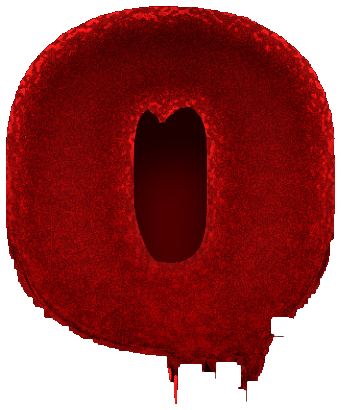
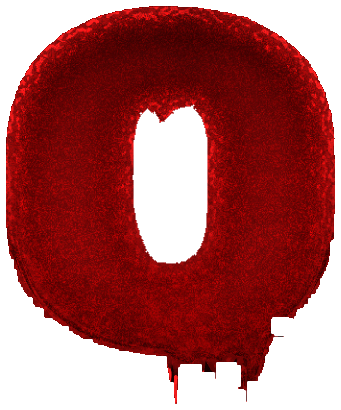
Open the town in blood; hollow letters; a shelf with headers (FT-854 r7)
The host panel's bell becomes a labeled blood door — blood-O drop cap +
'pen the town' — and the O keeps the alphabet's promise: it IS the
hotkey while the panel is up (deaf while typing). The title's O, O2 and
D lose their baked-dark counters: the enclosed center region is cut to
true transparency (surgical flood from the glyph center only — a first
pass that keyed on darkness alone also ate the stroke's dark core).

The role shelf groups by team with sticky headers (roles.json arrives
grouped by edition, which read as 'weirdly sorted'). The import box's
ghost text is now the exact JSON the parser accepts, with a Copy
template button beside Add. The workbench's picker grid anchors left
instead of running off screen. The session pill drops its broadcast
icon, and Leave walks out through a door instead of an X.

Changed region(s): [[0.3812, 0.2341, 0.6158, 0.6439]]

diff --git a/src/components/modals/EditionModal.vue b/src/components/modals/EditionModal.vue
@@ -86,14 +86,21 @@
           </div>
           </div>
         </div>
+        <!-- the ghost text IS the exact syntax (user call), and the copy
+             button hands over a fillable template -->
         <div class="wb-import-role" v-if="importRoleOpen">
           <textarea
             v-model="importRoleText"
             rows="3"
-            placeholder='Paste one role as JSON — an official id ("chef") or a role object {"name": …, "ability": …, "team": …}'
+            :placeholder="roleTemplateJson"
           ></textarea>
-          <div class="button" @click="importRole">
-            <font-awesome-icon icon="plus-circle" /> Add to script
+          <div class="wb-import-acts">
+            <div class="button" @click="importRole">
+              <font-awesome-icon icon="plus-circle" /> Add to script
+            </div>
+            <div class="button" @click="copyRoleTemplate">
+              <font-awesome-icon icon="clipboard" /> Copy template
+            </div>
           </div>
         </div>
       </div>
@@ -115,23 +122,29 @@
               @click="wbTeam = wbTeam === chip.value ? '' : chip.value"
             >{{ chip.label }}</span>
           </div>
+          <!-- grouped by team (user call), sticky group headers -->
           <ul class="wb-all-roles">
-            <li
-              v-for="entry in sidebarRoles"
-              :key="entry.key"
-              :class="['team-' + entry.team, { inscript: entry.inScript }]"
-              @click="toggleRole(entry)"
-              :title="entry.ability || entry.name"
-            >
-              <span
-                class="icon"
-                v-if="entry.iconUrl"
-                :style="{ backgroundImage: `url(${entry.iconUrl})` }"
-              ></span>
-              <span class="wb-role-name">{{ entry.name }}</span>
-              <small v-if="entry.isLib">{{ entry.mine ? "yours" : "library" }}</small>
-              <span class="wb-in" v-if="entry.inScript">✓</span>
-            </li>
+            <template v-for="group in sidebarGroups">
+              <li class="wb-shelf-head" :key="'head-' + group.team">
+                {{ group.label }} <small>({{ group.roles.length }})</small>
+              </li>
+              <li
+                v-for="entry in group.roles"
+                :key="entry.key"
+                :class="['team-' + entry.team, { inscript: entry.inScript }]"
+                @click="toggleRole(entry)"
+                :title="entry.ability || entry.name"
+              >
+                <span
+                  class="icon"
+                  v-if="entry.iconUrl"
+                  :style="{ backgroundImage: `url(${entry.iconUrl})` }"
+                ></span>
+                <span class="wb-role-name">{{ entry.name }}</span>
+                <small v-if="entry.isLib">{{ entry.mine ? "yours" : "library" }}</small>
+                <span class="wb-in" v-if="entry.inScript">✓</span>
+              </li>
+            </template>
           </ul>
           <div class="button-group">
             <div class="button" @click="searchRoles">
@@ -476,6 +489,17 @@ const SETUP_TABLE = {
   15: [9, 2, 3, 1]
 };
 const TEAM_ORDER = ["townsfolk", "outsider", "minion", "demon", "traveler"];
+// The import box's ghost text and its copyable template — the same object,
+// so the syntax the ghost shows is exactly the syntax the parser accepts.
+const ROLE_TEMPLATE = {
+  name: "Role Name",
+  team: "townsfolk | outsider | minion | demon",
+  ability: "What the role does.",
+  firstNight: 0,
+  otherNight: 0,
+  reminders: [],
+  setup: false
+};
 const TEAM_LABELS = {
   townsfolk: "Townsfolk",
   outsider: "Outsiders",
@@ -720,12 +744,37 @@ export default {
           inScript: inScriptLibIds.has(row.id)
         });
       });
-      return entries.filter(entry => {
-        if (q && !(entry.name || "").toLowerCase().includes(q)) return false;
-        if (this.wbTeam === "mine") return entry.isLib && entry.mine;
-        if (this.wbTeam) return entry.team === this.wbTeam;
-        return true;
-      });
+      // roles.json arrives grouped by EDITION (the user read it as "weirdly
+      // sorted") — the shelf sorts by team, then name, one order throughout.
+      const teamRank = t => {
+        const i = TEAM_ORDER.indexOf(t);
+        return i < 0 ? TEAM_ORDER.length : i;
+      };
+      return entries
+        .filter(entry => {
+          if (q && !(entry.name || "").toLowerCase().includes(q)) return false;
+          if (this.wbTeam === "mine") return entry.isLib && entry.mine;
+          if (this.wbTeam) return entry.team === this.wbTeam;
+          return true;
+        })
+        .sort(
+          (a, b) =>
+            teamRank(a.team) - teamRank(b.team) ||
+            (a.name || "").localeCompare(b.name || "")
+        );
+    },
+    roleTemplateJson() {
+      return JSON.stringify(ROLE_TEMPLATE);
+    },
+    /** The shelf grouped by team, headers included (user call). */
+    sidebarGroups() {
+      return ["townsfolk", "outsider", "minion", "demon"]
+        .map(team => ({
+          team,
+          label: TEAM_LABELS[team],
+          roles: this.sidebarRoles.filter(r => r.team === team)
+        }))
+        .filter(g => g.roles.length);
     },
     /** The by-team groups. Travellers never render here — town-side content. */
     viewGroups() {
@@ -1239,6 +1288,17 @@ export default {
       }
       this.ensureOpen();
     },
+    /** Put the fillable role template on the clipboard. */
+    async copyRoleTemplate() {
+      const text = JSON.stringify(ROLE_TEMPLATE, null, 2);
+      try {
+        await navigator.clipboard.writeText(text);
+        flashHint("Role template copied — fill it in and paste it back");
+      } catch (e) {
+        this.importRoleText = text;
+        flashHint("Clipboard blocked — template dropped into the box instead");
+      }
+    },
     /** The icon for any script role — official art, borrowed art, or generic. */
     roleIconUrl(role) {
       const base = this.$store.getters.rolesJSONbyId;
@@ -1533,6 +1593,13 @@ $team-colors: (
       .wb-script-picker {
         flex-grow: 0;
         width: 290px;
+        // the shared picker centers its grid on the trigger — here the
+        // trigger hugs the modal's left edge, so anchor the grid left
+        // instead of letting it run off screen
+        ::v-deep .grid {
+          left: 0;
+          transform: none;
+        }
       }
       .wb-actions {
         display: flex;
@@ -1638,6 +1705,27 @@ $team-colors: (
       overflow-y: auto;
       display: block;
       min-height: 0;
+      li.wb-shelf-head {
+        position: sticky;
+        top: 0;
+        z-index: 2;
+        background: rgba(8, 8, 12, 0.95);
+        font-size: 12px;
+        text-transform: uppercase;
+        letter-spacing: 1.5px;
+        opacity: 0.75;
+        padding: 4px 6px 2px;
+        cursor: default;
+        border-left: none;
+        border-radius: 0;
+        &:hover {
+          background: rgba(8, 8, 12, 0.95);
+        }
+        small {
+          opacity: 0.6;
+          letter-spacing: 0;
+        }
+      }
       li {
         display: flex;
         align-items: center;

diff --git a/src/components/Intro.vue b/src/components/Intro.vue
@@ -176,13 +176,18 @@
             <span class="back" title="Back" @click="mode = null"
               ><font-awesome-icon icon="arrow-left"
             /></span>
+            <!-- Golem fork (FT-854): the primary action wears WORDS in the
+                 door idiom — blood-O drop cap + label. The blood letter is
+                 the hotkey promise: O opens the town while this panel is up. -->
             <button
-              class="confirm"
+              class="confirm open-town"
               :class="{ disabled: !townIdClean }"
-              title="Open the town"
+              title="Open the town (O)"
               @click="confirmHost"
             >
-              <font-awesome-icon icon="bell" />
+              <span class="key"
+                ><img :src="bloodO" class="blood-cap-o" alt="O"
+              /></span>pen the town
             </button>
           </div>
         </div>
@@ -281,6 +286,9 @@ import alphabetMetrics from "../assets/blood/alphabet/metrics.json";
 // script), keyed to transparent PNGs.
 import bloodLogo from "../assets/title/blood-logo.png";
 import ontheLogo from "../assets/title/onthe-logo.png";
+// FT-854: the Open-the-town button's blood O (alphabet archive; ems baked
+// from its metrics at the title conversion — 341x410, baseline 352, /370).
+import bloodO from "../assets/blood/alphabet/O.png";
 // Golem fork (FT-854): the picker + its art moved to shared homes — the host
 // panel and the Almanac workbench render the SAME component and imagery.
 import ScriptPicker from "./ScriptPicker";
@@ -443,6 +451,7 @@ export default {
       blood: BLOOD,
       bloodLogo,
       ontheLogo,
+      bloodO,
       titleStyle: savedTitleStyle,
       // Golem fork: the entry panels.
       mode: null, // null = doors | "host" | "join"
@@ -484,9 +493,16 @@ export default {
     },
     // (The picker cleans up its own document listeners on unmount now —
     // it is the shared ScriptPicker component.)
+    // FT-854: the blood-O on "Open the town" promises a hotkey — live only
+    // while the host panel is up, deaf while typing in a field.
+    mode(v) {
+      if (v === "host") document.addEventListener("keyup", this.onHostPanelKey);
+      else document.removeEventListener("keyup", this.onHostPanelKey);
+    }
   },
   beforeDestroy() {
     clearInterval(this.statusTimer);
+    document.removeEventListener("keyup", this.onHostPanelKey);
   },
   methods: {
     async mintChecked() {
@@ -600,6 +616,15 @@ export default {
         this.scriptId = editionJSON.some(e => e.id === this.edition.id)
           ? this.edition.id
           : "__custom";
+      }
+    },
+    /** FT-854: O = Open the town, while the host panel is up. */
+    onHostPanelKey(e) {
+      const tag = e.target && e.target.tagName;
+      if (tag === "INPUT" || tag === "TEXTAREA" || tag === "SELECT") return;
+      if (e.target && e.target.isContentEditable) return;
+      if ((e.key === "o" || e.key === "O") && this.townIdClean) {
+        this.confirmHost();
       }
     },
     // ── Golem fork: the script grid (widget = the shared ScriptPicker) ───
@@ -1268,18 +1293,26 @@ export default {
           opacity: 1;
         }
       }
-      // Golem fork: the confirm button is icon-only (door-open) — it's the
-      // primary action, so the icon reads LARGE at a glance.
+      // Golem fork (FT-854): the primary action wears WORDS in the door
+      // idiom — a blood drop-cap + the label, like the intro doors.
       button.confirm {
-        font-size: 170%;
-        line-height: 1;
+        font-size: 120%;
+        font-family: inherit;
+        line-height: 1.1;
         color: white;
         cursor: pointer;
-        padding: 8px 24px;
+        padding: 8px 22px;
         background: rgba(0, 0, 0, 0.7);
         border: 3px solid #400;
         border-radius: 10px;
         box-shadow: 0 0 10px black;
+
+        .blood-cap-o {
+          // 341x410, baseline 352, at the title's /370 conversion
+          width: 0.922em;
+          height: 1.108em;
+          vertical-align: -0.157em;
+        }
 
         &:hover {
           color: red;

diff --git a/src/App.vue b/src/App.vue
@@ -72,12 +72,12 @@
          are in, who is with you, the vote-history count, and the door out.
          Nothing renders when there is no session. -->
     <div id="session-pill" v-if="session.sessionId">
+      <!-- (broadcast icon retired — user call 2026-08-17) -->
       <span
         class="who"
         :class="{ reconnecting: session.isReconnecting }"
         :title="session.ping ? session.ping + 'ms latency' : ''"
       >
-        <font-awesome-icon icon="broadcast-tower" />
         {{ session.isSpectator ? "Playing in" : "Hosting" }}
         <b>{{ session.sessionId }}</b>
         · {{ session.playerCount }} {{ session.playerCount === 1 ? "player" : "players" }}
@@ -125,13 +125,14 @@
            dialogs are silently auto-dismissed in dialog-less contexts
            (driven browser panes, embeds), which made this control read as
            dead. First click arms for 3s, second click leaves. -->
+      <!-- the door out wears a DOOR, not an X (user call 2026-08-17) -->
       <span
         class="leave"
         :class="{ armed: leaveArmed }"
         @click="pillLeave"
-        :title="leaveArmed ? 'Click again to confirm' : 'Leave this session'"
+        :title="leaveArmed ? 'Click again to confirm' : 'Leave this town'"
       >
-        <font-awesome-icon icon="times-circle" />
+        <font-awesome-icon icon="door-open" />
         {{ leaveArmed ? "Sure?" : "Leave" }}
       </span>
     </div>
